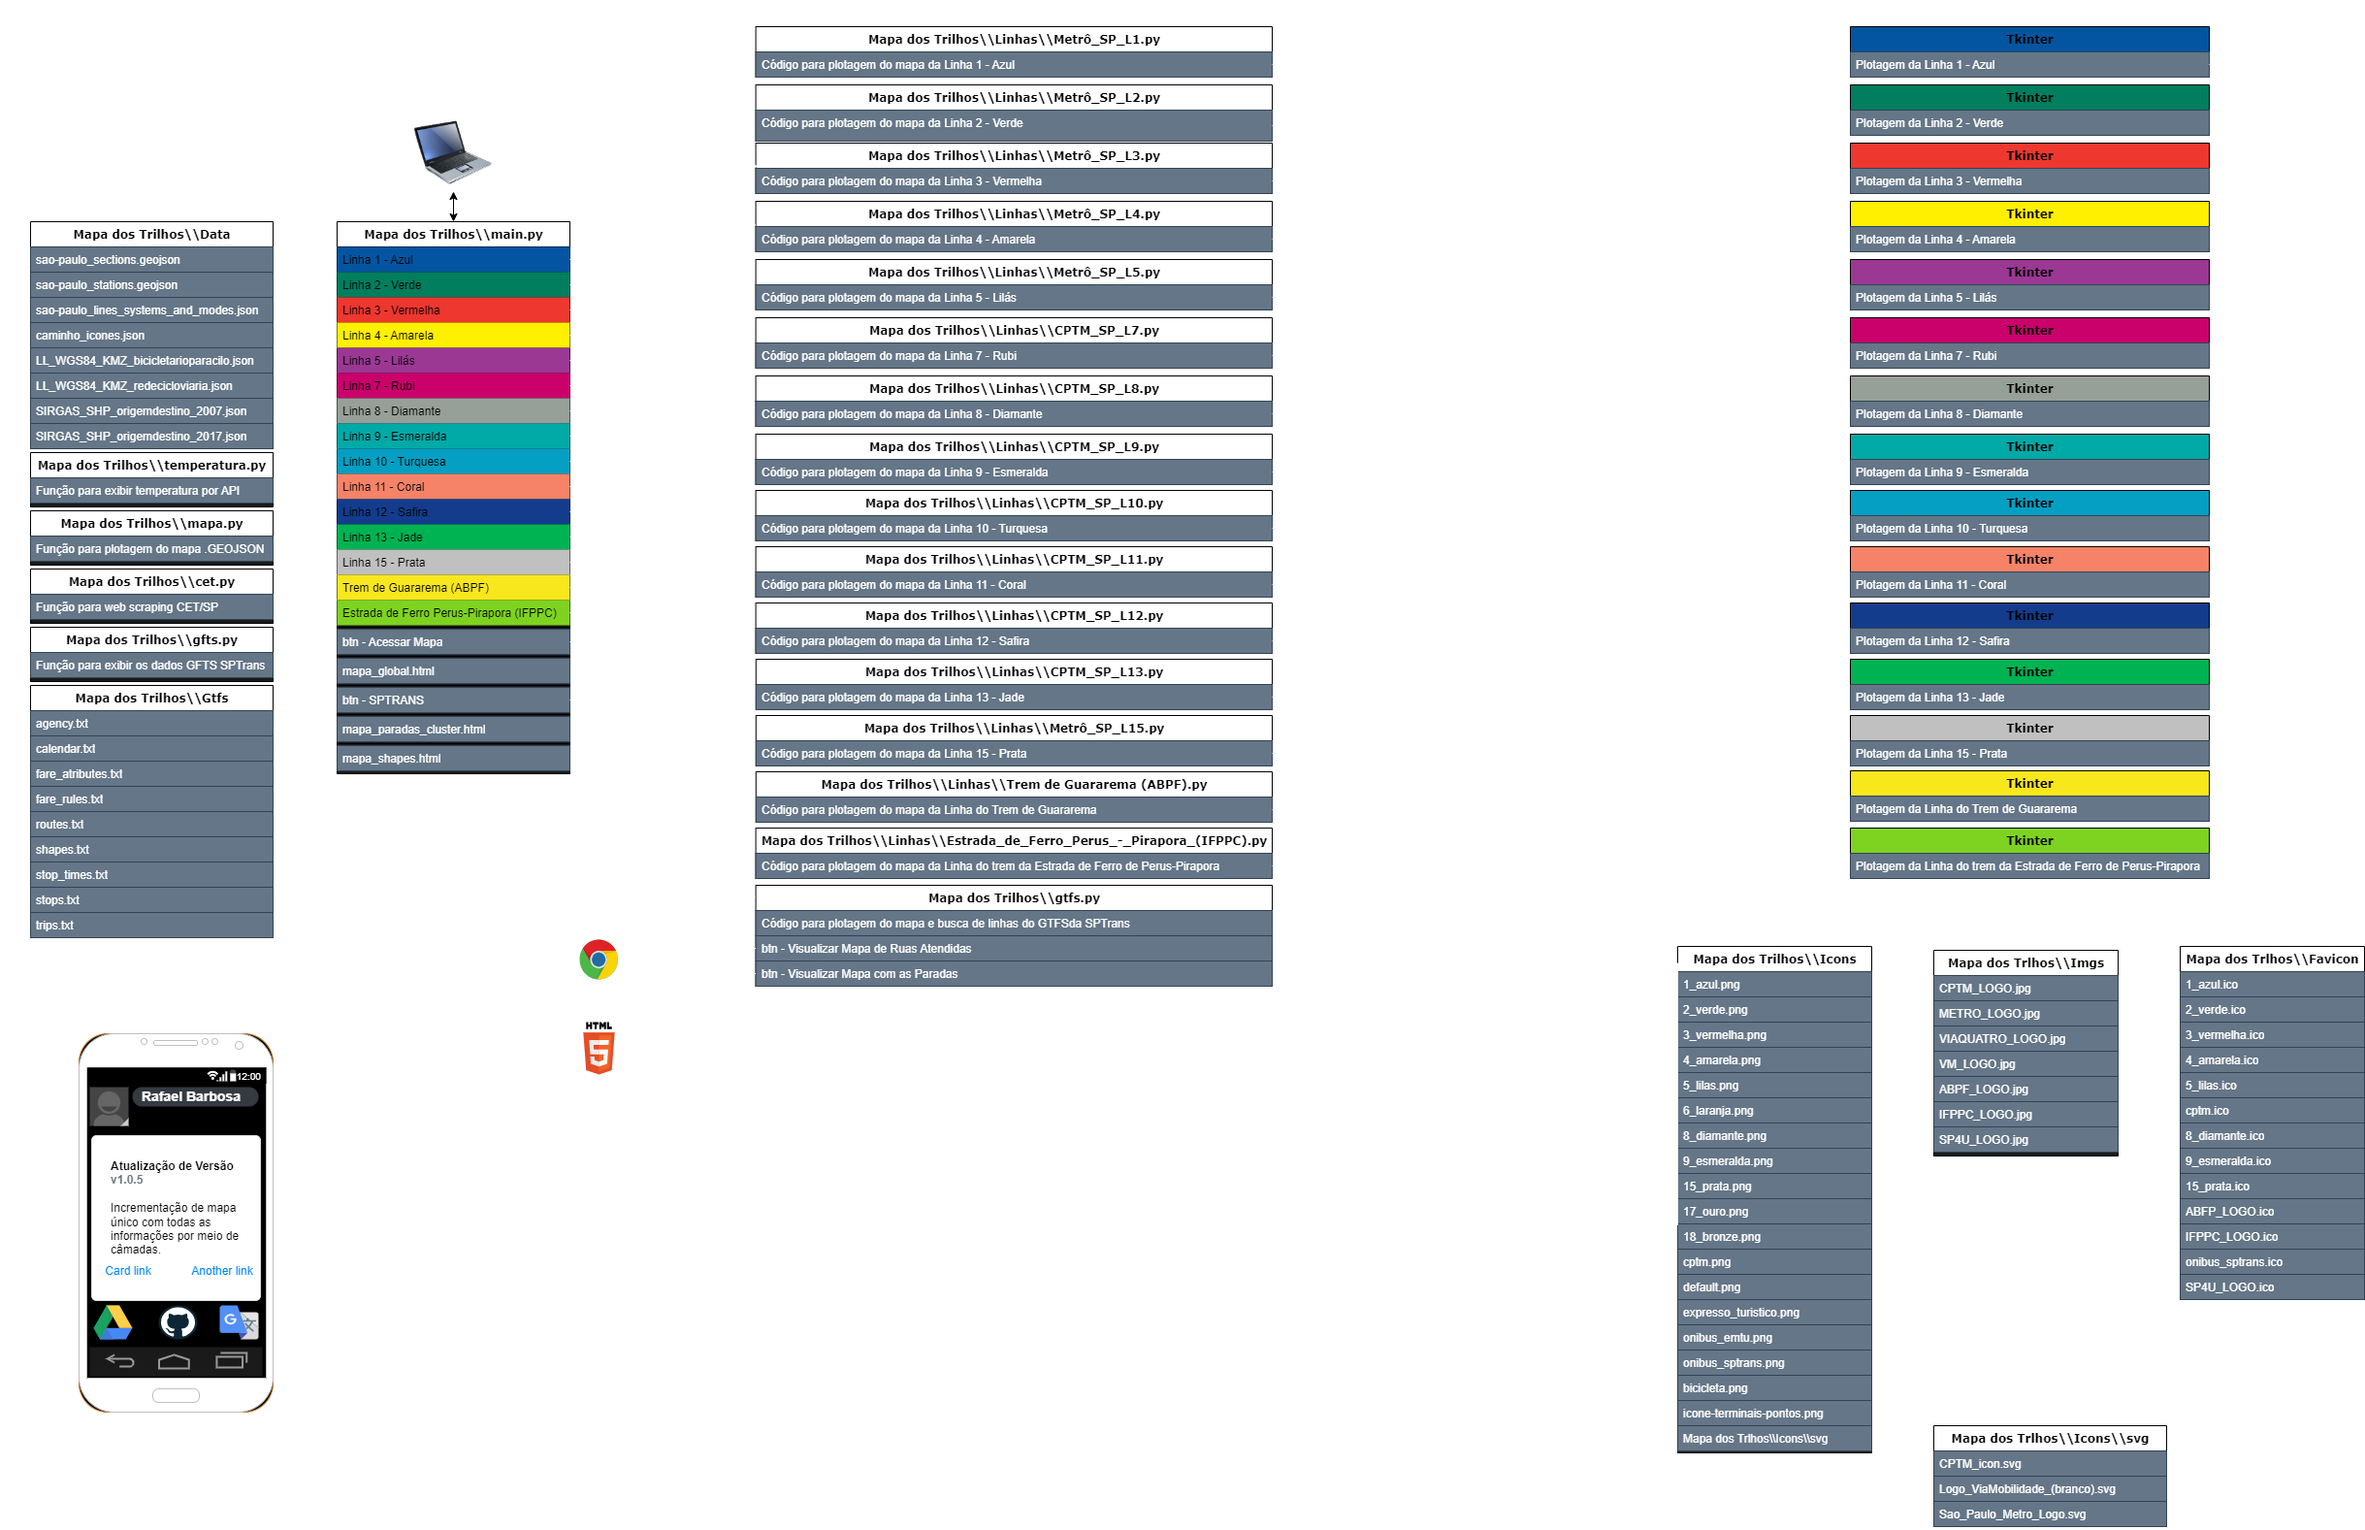
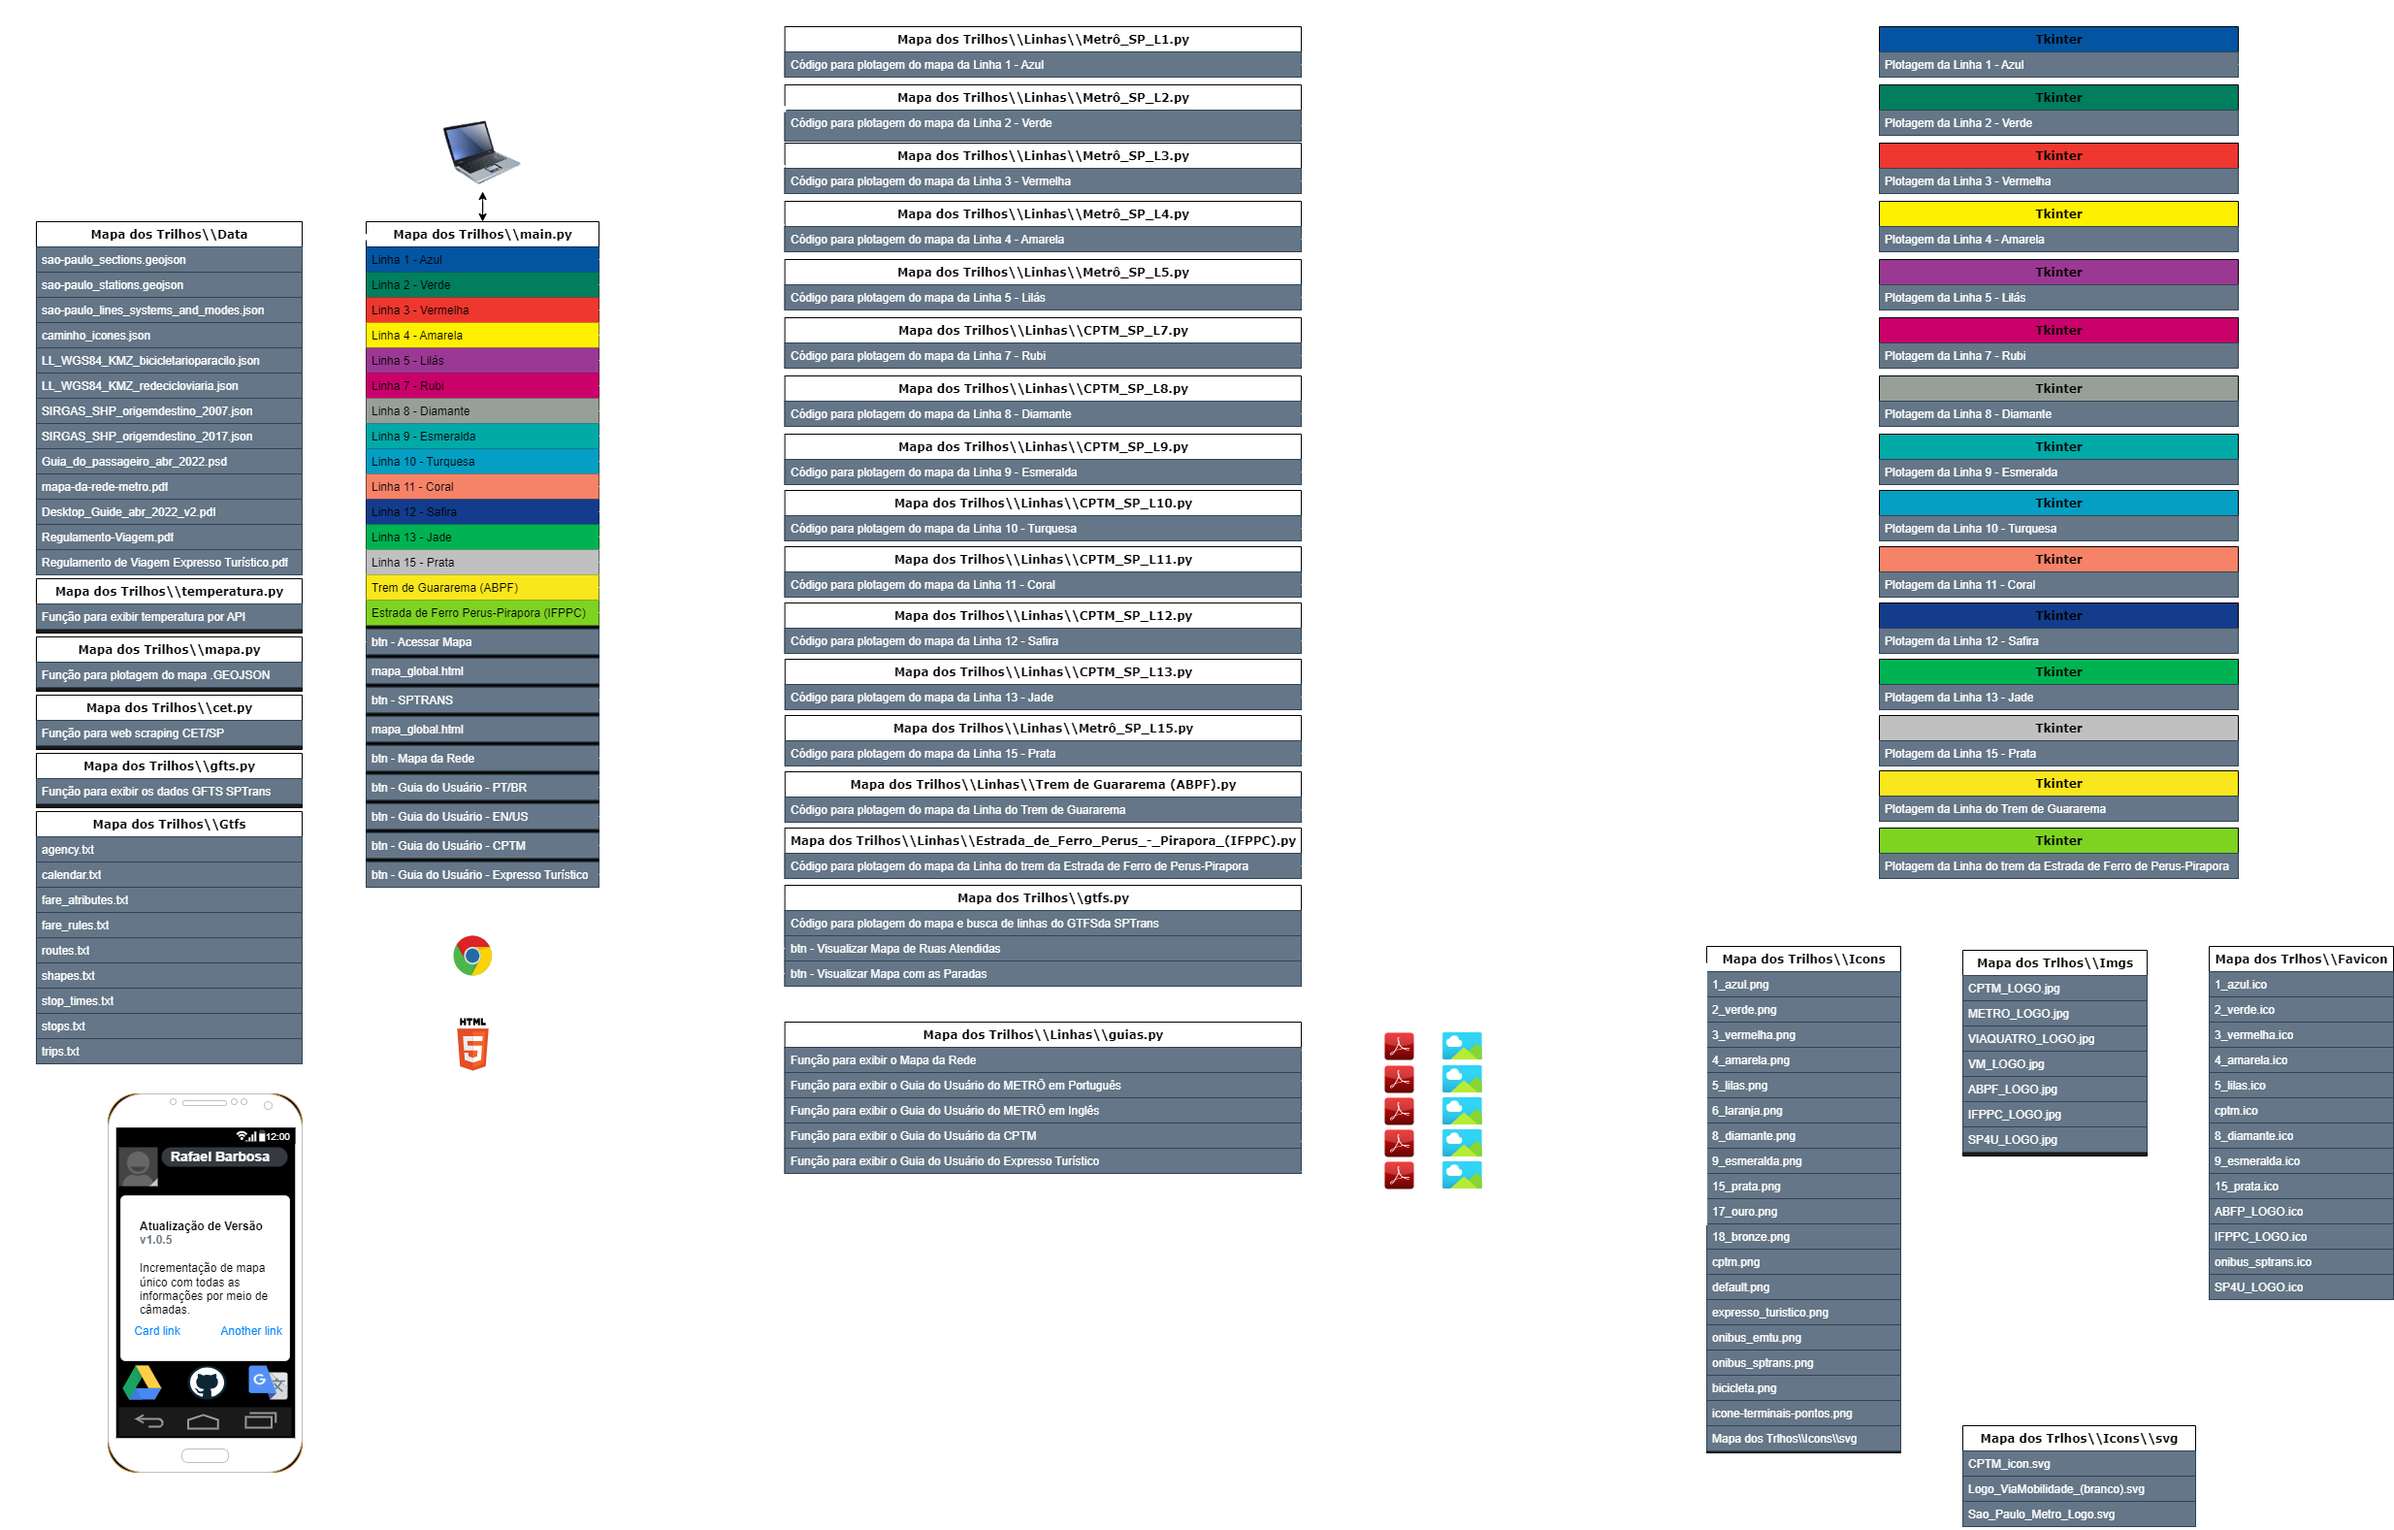
main

diff --git a/main.py b/main.py
@@ -97,7 +97,7 @@ frame_mapas.place(relx=0.5, rely=0, anchor=tk.N)
 
 # Botões do frame (Mapas)
 map_transp_button = tk.Button(
-    frame_mapas, text="Acessar Mapa", command=mapa_global, fg="#ffffff", bg="#442fff")
+    frame_mapas, text="Acessar Mapa", command=mapa_global, fg="black", bg="#C0C0C0")
 map_transp_button.pack(pady=5, fill='both', expand=True)
 
 # Criando o frame (Sistemas)
@@ -126,11 +126,11 @@ frame_guia_metro = ttk.LabelFrame(
 frame_guia_metro.place(relx=0.5, rely=0.225, anchor=tk.N)
 
 guia_pt_metro_button = tk.Button(
-    frame_guia_metro, text="Guia do Usuário - PT/BR", command=guia_pt_metro, fg="black", bg="#00B352")
+    frame_guia_metro, text="Guia do Usuário - PT/BR", command=guia_pt_metro, fg="black", bg="#0455A1")
 guia_pt_metro_button.pack(pady=5, fill='both', expand=True)
 
 guia_en_metro_button = tk.Button(
-    frame_guia_metro, text="Guia do Usuário - EN/US", command=guia_en_metro, fg="black", bg="#00B352")
+    frame_guia_metro, text="Guia do Usuário - EN/US", command=guia_en_metro, fg="black", bg="#0455A1")
 guia_en_metro_button.pack(pady=5, fill='both', expand=True)
 
 # Criando o frame (Guia de Usuário - CPTM)
@@ -139,11 +139,11 @@ frame_guia_cptm = ttk.LabelFrame(
 frame_guia_cptm.place(relx=0.5, rely=0.325, anchor=tk.N)
 
 guia_pt_metro_button = tk.Button(
-    frame_guia_cptm, text="Guia do Usuário - CPTM", command=guia_cptm, fg="black", bg="#ff2f2f")
+    frame_guia_cptm, text="Guia do Usuário - CPTM", command=guia_cptm, fg="black", bg="#CA016B")
 guia_pt_metro_button.pack(pady=5, fill='both', expand=True)
 
 guia_en_metro_button = tk.Button(
-    frame_guia_cptm, text="Guia do Usuário - Expresso Turístico", command=guia_cptm_expresso_turistico, fg="black", bg="#ff2f2f")
+    frame_guia_cptm, text="Guia do Usuário - Expresso Turístico", command=guia_cptm_expresso_turistico, fg="black", bg="#CA016B")
 guia_en_metro_button.pack(pady=5, fill='both', expand=True)
 
 # Botão para abrir o mapa da malha ferroviária e de corredores de ônibus
